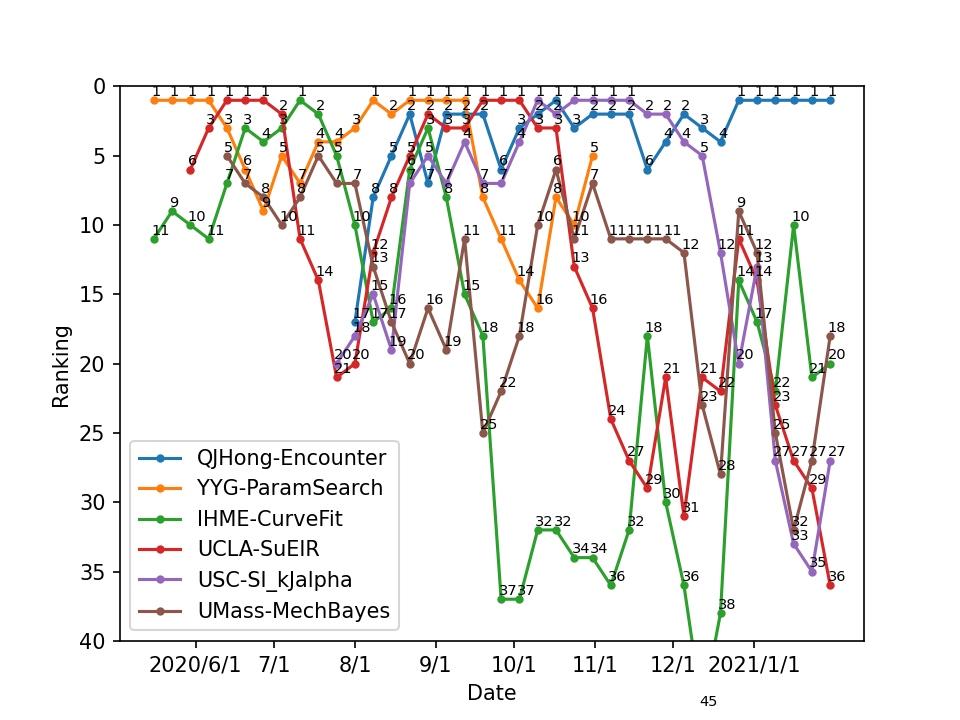
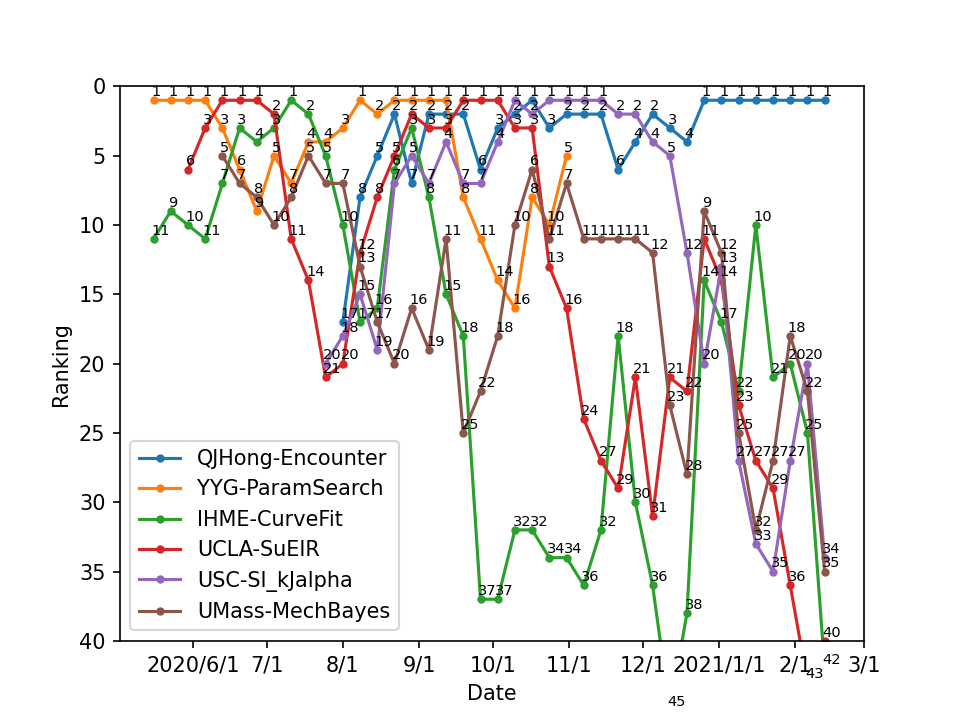
update feb 22

diff --git a/myrank.py b/myrank.py
@@ -127,7 +127,7 @@ plt.gca().invert_yaxis()
 plt.xlabel('Date')
 plt.ylabel('Ranking')
 plt.legend(['QJHong-Encounter','YYG-ParamSearch','IHME-CurveFit','UCLA-SuEIR','USC-SI_kJalpha','UMass-MechBayes'])#,'OliverWyman-Navigator'])#,'COVIDhub-ensemble','LANL-GrowthRate'])
-plt.xticks([datetime(2020,6,1),datetime(2020,7,1),datetime(2020,8,1),datetime(2020,9,1),datetime(2020,10,1),datetime(2020,11,1),datetime(2020,12,1),datetime(2021,1,1)],['2020/6/1','7/1','8/1','9/1','10/1','11/1','12/1','2021/1/1'])
+plt.xticks([datetime(2020,6,1),datetime(2020,7,1),datetime(2020,8,1),datetime(2020,9,1),datetime(2020,10,1),datetime(2020,11,1),datetime(2020,12,1),datetime(2021,1,1),datetime(2021,2,1),datetime(2021,3,1)],['2020/6/1','7/1','8/1','9/1','10/1','11/1','12/1','2021/1/1','2/1','3/1'])
 plt.savefig('Model_Rank',dpi=150)
 plt.show()
 
